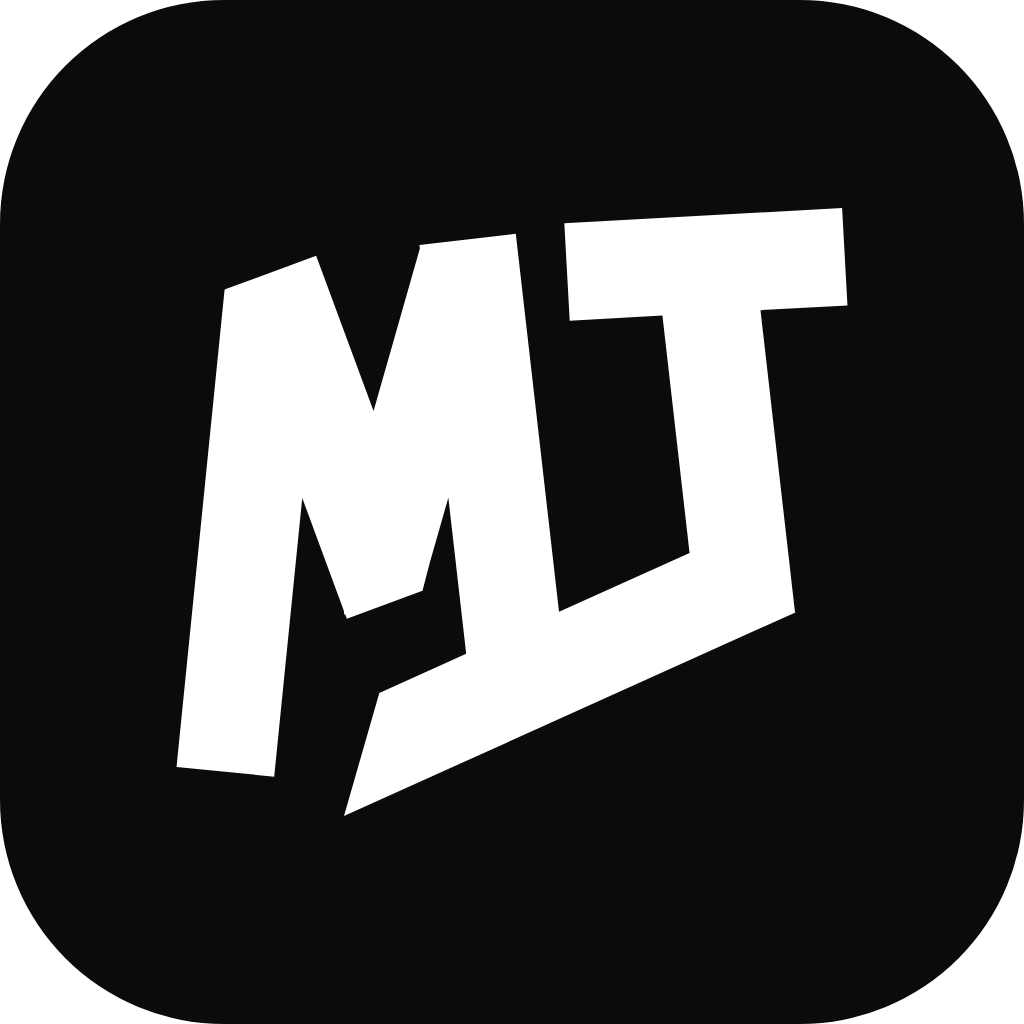
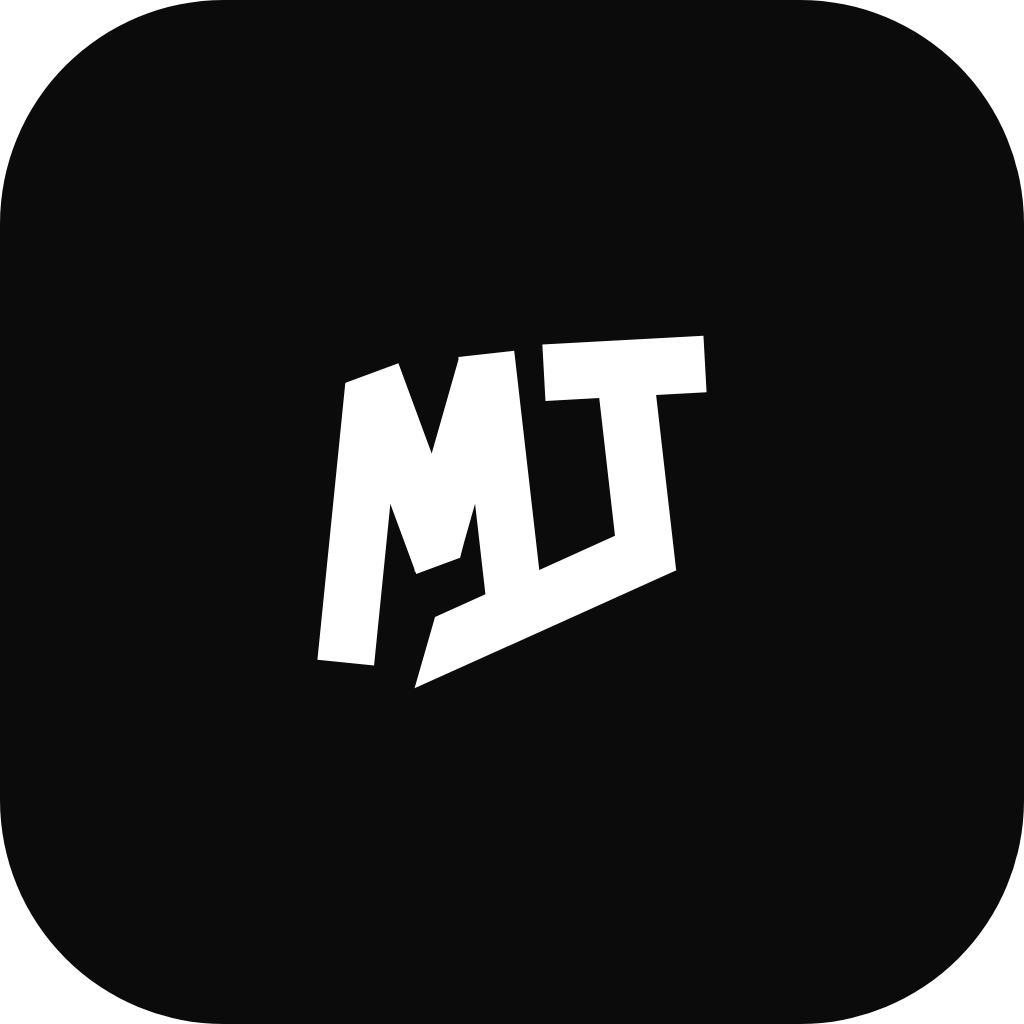
fix(brand): size the MT mark, and stop the native side saying T3 (#15)
The Dock icons drew the mark edge to edge; it now sits on a macOS-like margin,
and the picker mark is scaled to read at the same optical size as the other
provider logos.

Copy that names the app follows the running build on the desktop main process
(keyring hints, startup failure, SSH prompt, WSL notice), on the server (CLI
output, MCP auth, plugin marketplace), and in the native browser bridge.

Wire identifiers stay: the  MCP key is already written into users'
Codex config, the native messaging host id is registered with Chrome, and the
@t3tools package names are how upstream merges keep applying.

Changed region(s): [[0.1562, 0.1875, 0.8438, 0.8125]]

diff --git a/apps/web/src/components/Icons.tsx b/apps/web/src/components/Icons.tsx
@@ -705,12 +705,16 @@ export const MtModelIcon: Icon = ({ className, ...props }) => (
     className={cn("fill-current", className)}
     aria-hidden
   >
-    {/* The Munim mark, same path the app icon draws. */}
-    <path
-      d="M52.547 87.884L52.710 88.313L51.914 88.231L-0.000 603.926L105.522 614.537L135.846 313.360L180.699 434.810L181.210 439.258L182.291 439.136L184.066 443.911L265.794 413.732L273.569 383.736L293.716 313.043L312.994 481.660L219.104 524.021L180.964 657.000L668.780 436.993L668.189 435.670L631.008 110.432L725.000 105.249L719.204 0.000L419.046 16.549L424.862 121.797L525.037 116.268L554.382 372.820L413.312 436.422L366.622 27.955L262.488 39.871L262.937 43.850L212.900 219.495L150.865 51.563Z"
-      fillRule="nonzero"
-      transform="translate(22.067 26.000) scale(0.115677)"
-    />
+    {/* The Munim mark, same path the app icon draws. Scaled about the centre so
+        it reads at the same optical size as the other provider marks, which
+        fill more of their own box. */}
+    <g transform="translate(64 64) scale(1.34) translate(-64 -64)">
+      <path
+        d="M52.547 87.884L52.710 88.313L51.914 88.231L-0.000 603.926L105.522 614.537L135.846 313.360L180.699 434.810L181.210 439.258L182.291 439.136L184.066 443.911L265.794 413.732L273.569 383.736L293.716 313.043L312.994 481.660L219.104 524.021L180.964 657.000L668.780 436.993L668.189 435.670L631.008 110.432L725.000 105.249L719.204 0.000L419.046 16.549L424.862 121.797L525.037 116.268L554.382 372.820L413.312 436.422L366.622 27.955L262.488 39.871L262.937 43.850L212.900 219.495L150.865 51.563Z"
+        fillRule="nonzero"
+        transform="translate(22.067 26.000) scale(0.115677)"
+      />
+    </g>
   </svg>
 );
 

diff --git a/apps/server/src/bin.ts b/apps/server/src/bin.ts
@@ -21,6 +21,7 @@ import { runServerCommand, serveCommand, startCommand } from "./cli/server.ts";
 import { serviceCommand } from "./cli/service.ts";
 import { servicePreflightCommand } from "./cli/servicePreflight.ts";
 import { triageCommand } from "./cli/triage.ts";
+import { resolveAppDisplayName } from "./appDisplayName.ts";
 
 const DESKTOP_OPEN_POLL_ATTEMPTS = 40;
 const DESKTOP_OPEN_POLL_DELAY = Duration.millis(500);
@@ -50,7 +51,7 @@ const openProjectViaDesktopOrLiveServer = Effect.fn("openProjectViaDesktopOrLive
     }
 
     yield* Console.error(
-      "Launched T3 Code desktop, but it did not become ready in time. Falling back to the CLI server.",
+      `Launched ${resolveAppDisplayName()} desktop, but it did not become ready in time. Falling back to the CLI server.`,
     );
     return false;
   },
@@ -85,7 +86,7 @@ const connectUnavailableCommand = Command.make("connect", {
 export const makeCli = ({ cloudEnabled = hasCloudPublicConfig } = {}) =>
   Command.make("t3", { ...sharedServerCommandFlags }).pipe(
     Command.withDescription(
-      "Run the T3 Code server, or open a directory in the desktop app / a running server.",
+      `Run the ${resolveAppDisplayName()} server, or open a directory in the desktop app / a running server.`,
     ),
     Command.withHandler((flags) =>
       Effect.gen(function* () {

diff --git a/apps/desktop/src/linuxSecretStorage.ts b/apps/desktop/src/linuxSecretStorage.ts
@@ -1,3 +1,5 @@
+import { desktopAppDisplayName } from "./app/desktopDistro.ts";
+
 export type LinuxPasswordStorePreference =
   | "auto"
   | "gnome-libsecret"
@@ -112,11 +114,11 @@ export function resolveLinuxSecretStorageUnavailableMessage(input: {
 }
 
 function getGnomeKeyringRemediationMessage(): string {
-  return "T3 Code could not access GNOME Keyring to save this environment credential. Install and start GNOME Keyring, then restart T3 Code.";
+  return `${desktopAppDisplayName()} could not access GNOME Keyring to save this environment credential. Install and start GNOME Keyring, then restart ${desktopAppDisplayName()}.`;
 }
 
 function getKWalletRemediationMessage(): string {
-  return "T3 Code could not access KWallet to save this environment credential. Enable the KDE wallet subsystem in System Settings, then restart T3 Code.";
+  return `${desktopAppDisplayName()} could not access KWallet to save this environment credential. Enable the KDE wallet subsystem in System Settings, then restart ${desktopAppDisplayName()}.`;
 }
 
 // Advisory only: this picks between the GNOME Keyring and KWallet wording in the failure notice. It

diff --git a/apps/desktop/src/wsl/DesktopWslEnvironment.ts b/apps/desktop/src/wsl/DesktopWslEnvironment.ts
@@ -14,6 +14,7 @@ import { satisfiesSemverRange } from "@t3tools/shared/semver";
 
 import * as DesktopEnvironment from "../app/DesktopEnvironment.ts";
 import { parseWslDistroList, type WslDistro } from "./wslPathParsing.ts";
+import { desktopAppDisplayName } from "../app/desktopDistro.ts";
 
 const PROCESS_TERMINATE_GRACE = Duration.seconds(1);
 const LIST_TIMEOUT = Duration.seconds(8);
@@ -220,7 +221,7 @@ const NODE_PTY_PREBUILD_MISSING_EXIT_CODE = 4;
 
 export const formatNodePtyProbeFailureReason = (exitCode: number): string | null =>
   exitCode === NODE_PTY_PREBUILD_MISSING_EXIT_CODE
-    ? "WSL support is missing from this T3 Code build: the packaged Linux node-pty binary was not included. Rebuild the Windows artifact with `--wsl-prebuild <path-to-linux-pty.node>` or install a build that includes WSL support."
+    ? `WSL support is missing from this ${desktopAppDisplayName()} build: the packaged Linux node-pty binary was not included. Rebuild the Windows artifact with \`--wsl-prebuild <path-to-linux-pty.node>\` or install a build that includes WSL support.`
     : null;
 
 const NODE_PTY_PROBE_SCRIPT = (

diff --git a/apps/server/src/serverRuntimeStartup.ts b/apps/server/src/serverRuntimeStartup.ts
@@ -39,6 +39,7 @@ import * as ProviderSessionReaper from "./provider/Services/ProviderSessionReape
 import * as SessionStartupReconciler from "./provider/Services/SessionStartupReconciler.ts";
 import { forkParked } from "./serverActivation.ts";
 import * as ServiceLauncherClient from "./cloud/serviceLauncherClient.ts";
+import { resolveAppDisplayName } from "./appDisplayName.ts";
 import {
   formatHeadlessServeOutput,
   formatHostForUrl,
@@ -445,7 +446,7 @@ export const make = (options?: StartupOptions) =>
             const startupBrowserTarget = yield* resolveStartupBrowserTarget;
             if (serverConfig.mode !== "desktop") {
               yield* Effect.logInfo(
-                "Authentication required. Open T3 Code using the pairing URL.",
+                `Authentication required. Open ${resolveAppDisplayName()} using the pairing URL.`,
               ).pipe(Effect.annotateLogs({ pairingUrl: startupBrowserTarget }));
             }
             yield* runStartupPhase("browser.open", maybeOpenBrowser(startupBrowserTarget));

diff --git a/apps/desktop/src/ssh/DesktopSshEnvironment.ts b/apps/desktop/src/ssh/DesktopSshEnvironment.ts
@@ -25,6 +25,7 @@ import * as HttpClient from "effect/unstable/http/HttpClient";
 import * as ChildProcessSpawner from "effect/unstable/process/ChildProcessSpawner";
 
 import * as DesktopSshPasswordPrompts from "./DesktopSshPasswordPrompts.ts";
+import { desktopAppDisplayName } from "../app/desktopDistro.ts";
 
 export type DesktopSshEnvironmentRuntimeServices =
   | ChildProcessSpawner.ChildProcessSpawner
@@ -96,7 +97,7 @@ export function toSshPasswordPromptError(
       break;
     case "DesktopSshPromptWindowUnavailableError":
     case "DesktopSshPromptPresentationError":
-      message = "T3 Code window is not available for SSH authentication.";
+      message = `${desktopAppDisplayName()} window is not available for SSH authentication.`;
       break;
     case "DesktopSshPromptTimedOutError":
       message = `SSH authentication timed out for ${cause.destination}.`;

diff --git a/apps/server/src/plugins/CodexPluginMarketplace.ts b/apps/server/src/plugins/CodexPluginMarketplace.ts
@@ -60,6 +60,7 @@ import { deriveProviderInstanceConfigMap } from "../provider/Layers/ProviderInst
 import * as ServerSettings from "../serverSettings.ts";
 import { collectUint8StreamText } from "../stream/collectUint8StreamText.ts";
 import * as McpOAuthRuntime from "./McpOAuthRuntime.ts";
+import { resolveAppDisplayName } from "../appDisplayName.ts";
 import {
   CHATGPT_PUBLIC_MARKETPLACE_NAME,
   CHATGPT_PUBLIC_PLUGIN_SEARCH_MAX_PAGES,
@@ -3028,7 +3029,7 @@ const makeCodexPluginRuntime = (
           yield* client.request("initialize", {
             clientInfo: {
               name: "t3code_plugin_marketplace",
-              title: "T3 Code Plugin Marketplace",
+              title: `${resolveAppDisplayName()} Plugin Marketplace`,
               version: "0.1.0",
             },
             capabilities: { experimentalApi: true },

diff --git a/apps/server/src/plugins/McpOAuthRuntime.ts b/apps/server/src/plugins/McpOAuthRuntime.ts
@@ -23,6 +23,7 @@ import { HostProcessEnvironment, HostProcessWorkingDirectory } from "@t3tools/sh
 import { resolveSpawnCommand } from "@t3tools/shared/shell";
 
 import * as ProcessRunner from "../processRunner.ts";
+import { resolveAppDisplayName } from "../appDisplayName.ts";
 
 export type McpOAuthHarness = Extract<PluginMarketplaceHarnessId, "codex" | "claude" | "cursor">;
 
@@ -517,7 +518,7 @@ export const make = (options: McpOAuthRuntimeOptions = {}) =>
           yield* client.request("initialize", {
             clientInfo: {
               name: "t3code_mcp_oauth",
-              title: "T3 Code MCP Authentication",
+              title: `${resolveAppDisplayName()} MCP Authentication`,
               version: "0.1.0",
             },
             capabilities: { experimentalApi: true },

diff --git a/apps/desktop/src/backend/DesktopLocalEnvironmentAuth.ts b/apps/desktop/src/backend/DesktopLocalEnvironmentAuth.ts
@@ -10,6 +10,7 @@ import * as Semaphore from "effect/Semaphore";
 import * as HttpClient from "effect/unstable/http/HttpClient";
 
 import * as DesktopBackendPool from "./DesktopBackendPool.ts";
+import { desktopAppDisplayName } from "../app/desktopDistro.ts";
 
 export class DesktopLocalEnvironmentAuthBackendNotConfiguredError extends Schema.TaggedErrorClass<DesktopLocalEnvironmentAuthBackendNotConfiguredError>()(
   "DesktopLocalEnvironmentAuthBackendNotConfiguredError",
@@ -71,7 +72,7 @@ export const make = Effect.gen(function* () {
           httpBaseUrl: config.httpBaseUrl.href,
           credential,
           clientMetadata: {
-            label: "T3 Code Desktop",
+            label: `${desktopAppDisplayName()} Desktop`,
             deviceType: "desktop",
           },
         }).pipe(

diff --git a/apps/desktop/src/app/DesktopApp.ts b/apps/desktop/src/app/DesktopApp.ts
@@ -31,6 +31,7 @@ import * as DesktopShellEnvironment from "../shell/DesktopShellEnvironment.ts";
 import * as DesktopState from "./DesktopState.ts";
 import * as DesktopUpdates from "../updates/DesktopUpdates.ts";
 import * as DesktopWslBackend from "../wsl/DesktopWslBackend.ts";
+import { desktopAppDisplayName } from "./desktopDistro.ts";
 
 const DEFAULT_DESKTOP_BACKEND_PORT = 3773;
 const MAX_TCP_PORT = 65_535;
@@ -131,7 +132,7 @@ const handleFatalStartupError = Effect.fn("desktop.startup.handleFatalStartupErr
   const wasQuitting = yield* Ref.getAndSet(state.quitting, true);
   if (!wasQuitting) {
     yield* electronDialog.showErrorBox(
-      "T3 Code failed to start",
+      `${desktopAppDisplayName()} failed to start`,
       `Stage: ${stage}\n${message}${detail}`,
     );
   }

diff --git a/apps/server/src/textGeneration/OpenCodeTextGeneration.ts b/apps/server/src/textGeneration/OpenCodeTextGeneration.ts
@@ -33,6 +33,7 @@ import {
   clampPullRequestRankings,
 } from "./TextGenerationUtils.ts";
 import * as OpenCodeRuntime from "../provider/opencodeRuntime.ts";
+import { resolveAppDisplayName } from "../appDisplayName.ts";
 
 const OPENCODE_TEXT_GENERATION_IDLE_TTL = "30 seconds";
 
@@ -397,7 +398,7 @@ export const makeOpenCodeTextGeneration = Effect.fn("makeOpenCodeTextGeneration"
         const session = yield* Effect.tryPromise({
           try: () =>
             client.session.create({
-              title: `T3 Code ${input.operation}`,
+              title: `${resolveAppDisplayName()} ${input.operation}`,
               permission: [{ permission: "*", pattern: "*", action: "deny" }],
             }),
           catch: (cause) =>

diff --git a/apps/server/src/startupAccess.ts b/apps/server/src/startupAccess.ts
@@ -6,6 +6,7 @@ import { HttpServer } from "effect/unstable/http";
 
 import { ServerConfig } from "./config.ts";
 import * as EnvironmentAuth from "./auth/EnvironmentAuth.ts";
+import { resolveAppDisplayName } from "./appDisplayName.ts";
 
 export interface HeadlessServeAccessInfo {
   readonly connectionString: string;
@@ -121,7 +122,7 @@ export const renderTerminalQrCode = (value: string, margin = 2): string => {
 
 export const formatHeadlessServeOutput = (accessInfo: HeadlessServeAccessInfo): string =>
   [
-    "T3 Code server is ready.",
+    `${resolveAppDisplayName()} server is ready.`,
     `Connection string: ${accessInfo.connectionString}`,
     `Token: ${accessInfo.token}`,
     `Pairing URL: ${accessInfo.pairingUrl}`,
